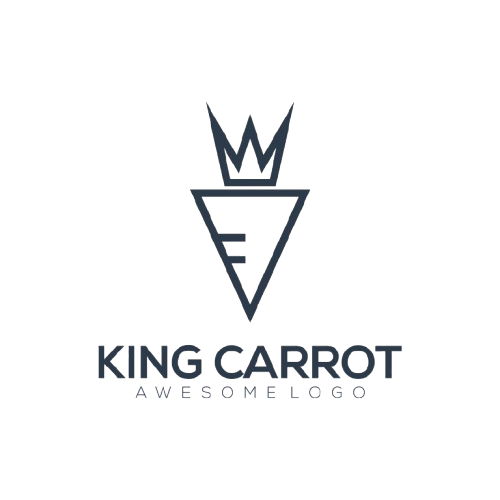
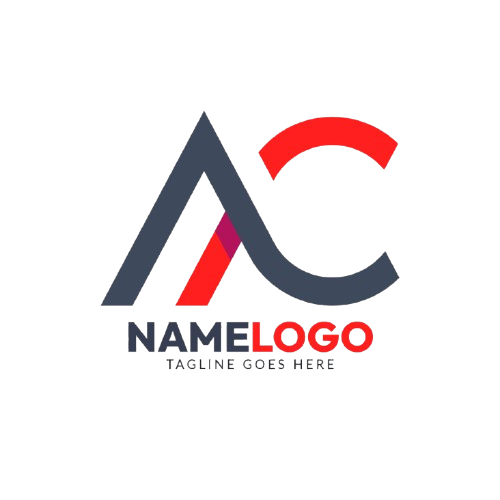
Update Hero component text to enhance messaging

Changed region(s): [[0.18, 0.21, 0.81, 0.81]]

diff --git a/src/components/Hero.js b/src/components/Hero.js
@@ -61,7 +61,7 @@ export default function Hero() {
           fontSize: 'clamp(40px, 9vw, 96px)', fontWeight: 700,
           lineHeight: 1.05, letterSpacing: '-0.03em', marginBottom: 24, color: '#fff'
         }}>
-          The Universe<br />
+          The Universe and more<br />
           <span style={{
             background: 'linear-gradient(90deg, #00C8FF, #4B6FFF, #E8009A)',
             WebkitBackgroundClip: 'text', WebkitTextFillColor: 'transparent'